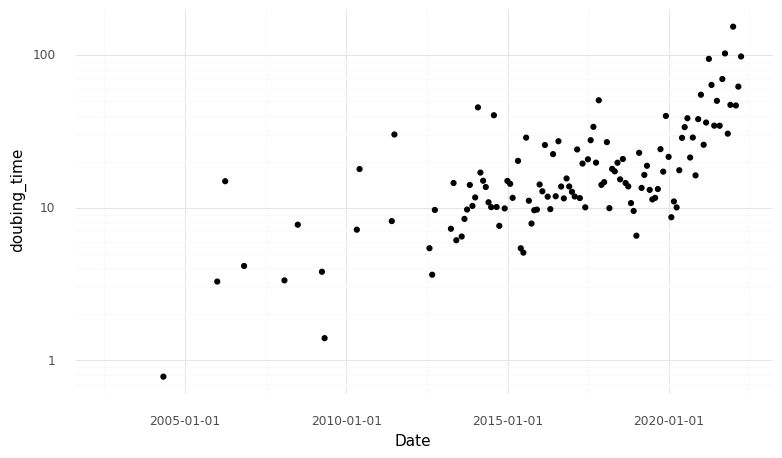
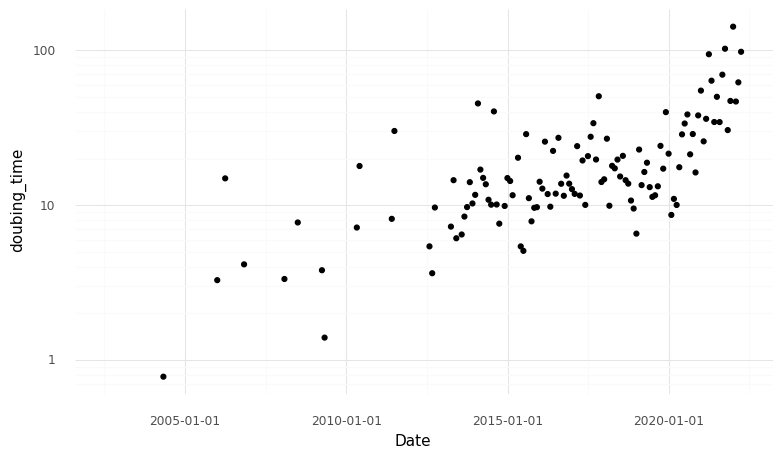
deploy: 783f5d8aea4b6f6c008cb1d2ea88844b4d790fa4

diff --git a/searchindex.js b/searchindex.js
@@ -1,1 +1,1 @@
-Search.setIndex({docnames:["201109_Make_records_figure","README","example_analysis"],envversion:{"sphinx.domains.c":2,"sphinx.domains.changeset":1,"sphinx.domains.citation":1,"sphinx.domains.cpp":5,"sphinx.domains.index":1,"sphinx.domains.javascript":2,"sphinx.domains.math":2,"sphinx.domains.python":3,"sphinx.domains.rst":2,"sphinx.domains.std":2,"sphinx.ext.intersphinx":1,sphinx:56},filenames:["201109_Make_records_figure.ipynb","README.md","example_analysis.ipynb"],objects:{},objnames:{},objtypes:{},terms:{"0":[0,1,2],"00":[1,2],"002":2,"00229":1,"00e7":1,"01":[1,2],"011":1,"01225":2,"01e7":1,"02":2,"022":2,"02x":2,"03":[1,2],"04":1,"04461":2,"05":[0,2],"057374":2,"06":[1,2],"06t08":1,"07":2,"073450":2,"07t08":1,"08":[1,2],"088608":2,"09":2,"1":[0,1,2],"10":[1,2],"1016":[1,2],"1038":[1,2],"103978":2,"108":2,"1093":1,"10t08":1,"11":[0,2],"1126":2,"115":2,"1186":1,"11t08":1,"12":[0,1,2],"123":2,"12t08":1,"13":2,"1315":1,"13t08":1,"14":2,"1471":1,"14t08":1,"15":[1,2],"15252":2,"156136":2,"1592":2,"1593":2,"1594":2,"1595":2,"1596":2,"1597":2,"15t08":1,"16":2,"16t08":1,"17":2,"174734":2,"177540":2,"179":2,"179891":2,"17t08":1,"18":2,"184":2,"187":2,"19":2,"1e1":0,"1e2":0,"1e3":0,"1e4":0,"1e5":0,"1e6":0,"1e7":0,"1m":2,"2":[0,1,2],"20":[0,1,2],"2002":2,"2003":2,"2004":2,"2005":2,"2006":2,"2007":[1,2],"2008":2,"2009":2,"2010":2,"2011":2,"2012":2,"2013":2,"20130101t010101":2,"2014":2,"2015":2,"2016":2,"2017":2,"2018":2,"2019":2,"20190101":2,"20190101t010101":2,"2020":2,"20200101t010101":2,"2021":2,"202110255":2,"2022":2,"21":2,"21579":2,"2164":1,"22":2,"23":2,"231977365":0,"2429555416405761":2,"247":2,"249":1,"25":[1,2],"255":2,"268":1,"27":2,"28":2,"280252":2,"281293":2,"29":2,"3":[0,1,2],"30":2,"31":2,"311":0,"32590":2,"36":2,"37":[1,2],"38":2,"381":2,"382453":2,"388":2,"39657":2,"4":[0,1,2],"401":0,"40572":2,"410062":2,"410561":2,"41328":2,"42":2,"420":2,"4390":2,"44987376":2,"46":2,"47":2,"47262":2,"47820":2,"48":1,"48706":2,"5":[0,1,2],"502633":2,"515":2,"5480":2,"5552":2,"596380":2,"6":[1,2],"609":2,"609732":2,"62":2,"6273":1,"655491":2,"66":2,"67":2,"7":2,"717":2,"736172":2,"76":2,"772672":2,"781184":2,"789":2,"8":[0,1,2],"816540":2,"8744100685939":2,"8744100853474":2,"8744102383249":2,"8744102454393":2,"8744104908466":2,"8744104957329":2,"8744104969204":2,"8744104970861":2,"8744104974162":2,"8744105021498":2,"8744105036873":2,"8744105036876":2,"8744105042797":2,"8744105148676":2,"8744105178106":2,"8788578254833":0,"889":2,"9":[1,2],"911392":2,"92":2,"921388":2,"93650":2,"969883":2,"971059":2,"972059":2,"992":2,"break":[0,2],"default":[1,2],"do":[0,2],"float":[0,2],"import":[0,1,2],"int":2,"p\u00e1lovic":2,"public":0,"r\u00f3bert":2,"return":2,"super":1,"true":[0,2],A:[1,2],If:0,In:1,No:[1,2],The:2,To:[0,1],_or_:2,abm1831:2,adjust_text:0,adult:2,adv:2,ae:[0,2],after:2,al:[1,2],alia:[0,2],all:1,all_studi:2,allergi:2,alpha:2,alphabet:2,amp:1,an:1,analysi:1,andrea:2,ani:0,api:2,append:2,appli:2,arial:2,arna:1,arrowprop:0,arrowstyl:0,ascend:2,assign:2,astyp:2,august:2,author:[1,2],authors_pct_chang:2,autoalign:0,avail:2,b:2,back:2,barbacioru:1,base_famili:2,bc:2,befor:2,behavior:0,below:1,biologi:2,biorxiv:[1,2],biorxiv_over_tim:2,black:[0,2],blood:2,bmc:1,bmcgenom:1,bone:2,bool:2,brain:2,breakdown:2,breaker:0,builtin:0,bx_frac:2,c0:2,c1:2,c2:2,c3:2,c4:2,c:2,can:2,cao:1,castillo:2,cat:2,catalin:1,categor:2,categori:2,cell:0,cells_per_month:2,cells_per_studi:2,check:2,chemotherapi:2,chr:1,chromium:2,clinic:2,clr:2,cluster:[1,2],clustering_over_tim:2,clusters_per_cel:2,clusters_per_cells_by_tissu:2,code:1,col:1,col_charact:1,col_doubl:1,col_numb:1,color:[0,2],colorconvert:2,colorsi:2,column:[1,2],com:2,comma_format:0,common:2,commun:2,complet:1,concat:2,config:[0,2],contain:0,contrast:[1,2],convert:2,copi:[1,2],count:2,cours:2,cp:1,cra004852:2,cts_:2,cultur:2,curat:[1,2],current:2,d:[0,2],data:[0,1,2],data_scal:2,data_snapshot_2019:1,databas:1,datafram:2,dataset:2,date:[0,1,2],date_break:2,date_format:2,datetim:0,dbl:1,decemb:2,def:2,dejavu:2,delim:1,deposit:2,deprec:0,deprecationwarn:0,detail:0,devdoc:0,development:[1,2],df:[0,2],df_:2,dictionari:2,did_biorxiv:2,differ:[1,2],diseas:2,displai:2,doi:[1,2],doubing_tim:2,doubling_tim:2,drop:2,dropna:2,drosophila:2,dt:2,dtype:2,each:2,elimin:2,embryo:2,end:2,entri:2,erdogan:2,erkan:2,esumi:1,et:[1,2],exampl:1,exclude_tissu:2,expand_point:0,expand_text:0,explod:2,ey:2,facet_wrap:2,fall:2,fals:[0,2],famili:2,februari:2,fig:[0,2],figur:[1,2],figure_format:[0,2],figure_s:[0,2],file:1,fill:2,fillna:2,filterwarn:2,findfont:2,fit:2,float64:[0,2],folder:2,follow:2,font:2,font_manag:2,format:[0,2],formatt:[0,2],formula:2,found:2,fr:1,fraction:2,from:[0,2],fu:2,fuchou:1,full:1,gao:2,ge:1,gener:1,geo:1,geom_bar:2,geom_lin:2,geom_point:[0,2],geom_text:0,get:2,get_coeff_pv:2,get_regression_coeff:2,ggplot:[0,2],gilchrist:1,github:[1,2],gkl050:1,grei:2,group:2,groupbi:2,gs:1,gse14605:1,gse155578:2,gse165897:2,gse4309:1,gt:2,guan:2,guidanc:0,h5ad:[1,2],h:2,ha:2,hallmark:2,head:[1,2],heart:2,here:0,heterochron:2,hex_color:2,hls_to_rgb:2,hostedtoolcach:0,html:0,http:[0,1,2],huang:2,human:2,i:1,ian:1,id:2,iden:2,ident:2,idx:2,ignor:2,iloc:2,immunol:2,immunolog:2,index:2,individu:2,inf:2,inlin:[0,2],inlinebackend:[0,2],instruct:1,int64:2,interact:0,io:[1,2],ipykernel_1825:0,isol:[1,2],iterrow:0,itself:0,j:[1,2],jaci:2,jam:2,januari:2,jason:1,jessica:2,ji:2,journal:[1,2],juan:2,k:[1,2],kaiyang:2,keller:2,kib:1,kidnei:2,kind:2,kur:1,kurimoto:1,l:2,lab:[0,2],label:[0,2],lambda:2,last:2,layer:0,lcm:1,leydig:2,leyva:2,liang:2,lib:0,librari:[0,1],light:2,lighten:2,lightgrei:0,limit:0,list:2,liver:2,lm:2,loc:0,locat:[1,2],log10:2,log:2,longitudin:2,look:2,lot:2,ls:1,lung:2,lw:0,m:[0,1,2],m_idx:2,make:2,manual:1,manuel:2,manuscript:[1,2],map:[0,2],marrow:2,matplotlib:[0,2],matplotlibdeprecationwarn:2,me:1,mean:2,measur:[0,1,2],median:2,median_rna_df:2,merg:2,meth:1,method:2,michael:1,minpeng:2,miss:0,mizani:[0,2],mode:1,modifi:0,modul:2,molecular:2,month:2,monthli:2,monthly_stat:2,more:[0,1],most:2,motoneuron:2,mous:2,mplcol:2,mrna:1,msb:2,n:0,na:1,name:2,namespac:0,nan:[1,2],nar:1,nat:[1,2],natur:2,ncol:2,neur:1,neuro:1,neuron:1,new_color:2,newest:2,nichola:2,nierop:2,nmeth:1,none:2,normal:2,note:0,notebook:1,novemb:2,np:[0,2],nper:2,nresearch:1,nuclei:1,number:[1,2],numpi:[0,2],nuniqu:2,nxn:[0,1,2],object:1,obtain:1,octob:2,ol:2,onc:2,onli:2,oper:1,opt:0,option:[0,2],order:2,org:0,organ:[1,2],organoid:2,other:2,out:1,ovari:2,over:[1,2],p:[0,2],p_:2,packag:0,palett:2,pancrea:2,panda:[0,1,2],panel:[1,2],parabiosi:2,param:2,pars:1,patrick:2,pca:[1,2],pcr:1,pct_chang:2,pd:[0,1,2],pdf:2,pekcan:2,per:[0,2],per_month:2,perfom:2,perform:2,pick:1,pipe:[0,2],pipet:1,pivot:2,platform:1,plot:2,plotnin:[0,2],plotninewarn:0,popul:0,pre:2,predict:2,predict_number_celltyp:2,preprint:2,print:2,proce:1,produc:2,profil:2,programat:1,proportion:2,pseudoanalysi:2,pseudotim:[1,2],pseudotime_over_tim:2,publish:2,pvalu:2,py:0,pylab:[0,2],python3:0,python:0,q:2,qcut:2,queri:[0,2],r:2,rat:2,read_csv:[0,1,2],read_delim:1,readr:1,reciproc:2,red:2,releas:0,remain:2,remov:0,renam:2,replac:[0,2],report:[0,1,2],repositori:2,request:2,requir:0,resampl:2,reset_index:2,retina:[0,2],reve:2,reveal:[1,2],rgb:2,rgb_to_hl:2,rihel:1,rna:[0,1,2],rna_df:2,row:[0,1],run:2,s0896:1,s41586:2,s41597:2,s:2,sadvanc:2,safe:0,san:2,sanaz:2,save:2,scalar:0,scale_color_manu:2,scale_fill_brew:2,scale_fill_manu:2,scale_x_datetim:[0,2],scale_x_log10:2,scale_y_log10:[0,2],scha:2,sci:2,sciadv:2,scienc:2,scrnaseq_studi:2,sdata:2,se:[0,1,2],see:1,sep:[0,1,2],septemb:2,seq2:2,seq:[0,2],sequenc:2,shape:2,sheng:1,shigei:1,shigeyuki:1,shih:2,shorthand:[0,1,2],silenc:0,sing:1,singl:0,site:0,size:[0,1,2],ski:2,skin:2,sm:[1,2],smart:2,smarter:2,smf:2,sort_index:2,sort_valu:[0,2],sourc:[1,2],space:2,spec:1,specif:[0,1],spleen:2,split:2,stage:[1,2],stat:2,stat_smooth:2,statist:2,statsmodel:2,str:[0,2],strftime:2,string:2,studi:0,studies_over_tim:2,studies_per_month:2,subkhank:1,subkhankulova:1,subset:2,sul:1,sum:2,summary_t:2,sun:2,support:2,system:2,t:[0,1,2],t_:2,t_dict:2,tabl:2,tail:[1,2],take:2,tang:1,tatian:1,tatiana:1,tdf:2,tech:2,techniqu:[1,2],techniques_over_tim:2,technolog:2,test:2,theme_minim:[0,2],thi:[0,2],ti:1,tibbl:1,tidyvers:1,tietjen:1,time:2,timestamp:2,tissu:[1,2],tissue_:2,titl:[0,1,2],tmp:0,to_datetim:[0,2],to_excel:2,to_fram:2,to_rgb:2,top:2,top_journ:2,top_tissu:2,total:[0,1,2],tran:1,transcriptom:[1,2],trend:[1,2],ts:2,tsne:[1,2],tsne_over_tim:2,tsv:[0,1,2],tumor:2,type:[0,1,2],uniqu:2,unique_author:2,unknown:2,url:2,us:[0,2],v0:2,val:[1,2],valu:[0,2],value_count:2,van:2,variabl:1,veloc:[1,2],velten:2,vs:2,wang:1,want:0,warn:[0,2],wen:2,whole:2,wu:1,www:[1,2],x64:0,x:[0,1,2],xi:[1,2],xiaoju:2,xin:2,xlsx:2,xuefan:2,y:[0,1,2],yanagawa:1,yangzhou:1,yanxiang:1,ye:2,year:2,yi:2,you:0,yuchio:1,zhang:2,zorder:0},titles:["Make plot highlighting record datasets over time","single-cell-studies","Example analysis notebook - single cell studies database"],titleterms:{With:1,access:1,analysi:2,cell:[1,2],databas:2,dataset:0,exampl:2,gsutil:1,highlight:0,make:0,notebook:2,over:0,plot:0,python:1,r:1,record:0,singl:[1,2],snapshot:1,studi:[1,2],time:0}})
+Search.setIndex({docnames:["201109_Make_records_figure","README","example_analysis"],envversion:{"sphinx.domains.c":2,"sphinx.domains.changeset":1,"sphinx.domains.citation":1,"sphinx.domains.cpp":5,"sphinx.domains.index":1,"sphinx.domains.javascript":2,"sphinx.domains.math":2,"sphinx.domains.python":3,"sphinx.domains.rst":2,"sphinx.domains.std":2,"sphinx.ext.intersphinx":1,sphinx:56},filenames:["201109_Make_records_figure.ipynb","README.md","example_analysis.ipynb"],objects:{},objnames:{},objtypes:{},terms:{"0":[0,1,2],"00":[1,2],"002":2,"00229":1,"00e7":1,"01":[1,2],"011":1,"01225":2,"01e7":1,"02":2,"022":2,"02x":2,"03":[1,2],"04":1,"04461":2,"05":[0,2],"06":[1,2],"06t08":1,"07":2,"073450":2,"07t08":1,"08":[1,2],"088608":2,"09":2,"1":[0,1,2],"10":[1,2],"1016":[1,2],"1038":[1,2],"103978":2,"108":2,"1093":1,"10t08":1,"11":[0,2],"1114798":2,"1126":2,"116":2,"1186":1,"11t08":1,"12":[0,1,2],"123":2,"12t08":1,"13":2,"1315":1,"13t08":1,"14":2,"1471":1,"14t08":1,"15":[1,2],"15252":2,"156136":2,"1593":2,"1594":2,"1595":2,"1596":2,"1597":2,"1598":2,"15t08":1,"16":2,"16t08":1,"17":2,"174734":2,"177540":2,"179":2,"179891":2,"17t08":1,"18":2,"184":2,"187":2,"19":2,"1e1":0,"1e2":0,"1e3":0,"1e4":0,"1e5":0,"1e6":0,"1e7":0,"1m":2,"2":[0,1,2],"20":[0,1,2],"2002":2,"2003":2,"2004":2,"2005":2,"2006":2,"2007":[1,2],"2008":2,"2009":2,"2010":2,"2011":2,"2012":2,"2013":2,"20130101t010101":2,"2014":2,"2015":2,"2016":2,"2017":2,"2018":2,"2019":2,"20190101":2,"20190101t010101":2,"2020":2,"20200101t010101":2,"2021":2,"202110255":2,"2022":2,"21":2,"2164":1,"21737":2,"22":2,"23":2,"231977365":0,"2428035043804756":2,"247":2,"249":1,"25":[1,2],"251":2,"255":2,"268":1,"27":2,"28":2,"280252":2,"281293":2,"29":2,"3":[0,1,2],"30":2,"31":2,"311":0,"32590":2,"334365":2,"36":2,"37":[1,2],"38":2,"381":2,"382453":2,"3855":2,"388":2,"39657":2,"4":[0,1,2],"401":0,"40572":2,"410062":2,"410561":2,"41328":2,"42":2,"420":2,"45757376":2,"46":2,"47":2,"47262":2,"4760":2,"47820":2,"48":1,"5":[0,1,2],"515":2,"5485":2,"56412":2,"596380":2,"6":[1,2],"609":2,"609732":2,"62":2,"6273":1,"66":2,"669199":2,"67":2,"7":2,"718":2,"718117":2,"736172":2,"76":2,"772672":2,"781184":2,"790":2,"8":[0,1,2],"828306":2,"838547":2,"8751434836977":0,"8787740934054":2,"8787741106929":2,"8787748932521":2,"8787748936837":2,"8787748980215":2,"8787748995630":2,"8787751461069":2,"8787751467987":2,"8787751502800":2,"8787751559596":2,"8787751586208":2,"8787751590355":2,"8787751719677":2,"8787751773437":2,"8787813732925":2,"892":2,"9":[1,2],"911392":2,"92":2,"93650":2,"969883":2,"971059":2,"993":2,"break":[0,2],"default":[1,2],"do":[0,2],"float":[0,2],"import":[0,1,2],"int":2,"p\u00e1lovic":2,"public":0,"r\u00f3bert":2,"return":2,"super":1,"true":[0,2],A:[1,2],If:0,In:1,No:[1,2],The:2,To:[0,1],_or_:2,abm1831:2,adjust_text:0,adult:2,adv:2,ae:[0,2],after:2,al:[1,2],alia:[0,2],all:1,all_studi:2,allergi:2,alpha:2,alphabet:2,amp:1,an:1,analysi:1,andrea:2,ani:0,api:2,append:2,appli:2,arial:2,arna:1,arrowprop:0,arrowstyl:0,ascend:2,assign:2,astyp:2,august:2,author:[1,2],authors_pct_chang:2,autoalign:0,avail:2,b:2,back:2,barbacioru:1,base_famili:2,bc:2,befor:2,behavior:0,below:1,biologi:2,biorxiv:[1,2],biorxiv_over_tim:2,black:[0,2],blood:2,bmc:1,bmcgenom:1,bone:2,bool:2,brain:2,breakdown:2,breaker:0,builtin:0,bx_frac:2,c0:2,c1:2,c2:2,c3:2,c4:2,c:2,can:2,cao:1,castillo:2,cat:2,catalin:1,categor:2,categori:2,cell:0,cells_per_month:2,cells_per_studi:2,check:2,chemotherapi:2,chr:1,chromium:2,clinic:2,clr:2,cluster:[1,2],clustering_over_tim:2,clusters_per_cel:2,clusters_per_cells_by_tissu:2,code:1,col:1,col_charact:1,col_doubl:1,col_numb:1,color:[0,2],colorconvert:2,colorsi:2,column:[1,2],com:2,comma_format:0,common:2,commun:2,complet:1,concat:2,config:[0,2],contain:0,contrast:[1,2],convert:2,copi:[1,2],count:2,cours:2,cp:1,cra004852:2,cts_:2,cultur:2,curat:[1,2],current:2,d:[0,2],data:[0,1,2],data_scal:2,data_snapshot_2019:1,databas:1,datafram:2,dataset:2,date:[0,1,2],date_break:2,date_format:2,datetim:0,dbl:1,decemb:2,def:2,dejavu:2,delim:1,deposit:2,deprec:0,deprecationwarn:0,detail:0,devdoc:0,development:[1,2],df:[0,2],df_:2,dictionari:2,did_biorxiv:2,differ:[1,2],diseas:2,displai:2,doi:[1,2],doubing_tim:2,doubling_tim:2,drop:2,dropna:2,drosophila:2,dt:2,dtype:2,each:2,elimin:2,embryo:2,end:2,entri:2,erdogan:2,erkan:2,esumi:1,et:[1,2],exampl:1,exclude_tissu:2,expand_point:0,expand_text:0,explod:2,ey:2,facet_wrap:2,fall:2,fals:[0,2],famili:2,februari:2,fig:[0,2],figur:[1,2],figure_format:[0,2],figure_s:[0,2],file:1,fill:2,fillna:2,filterwarn:2,findfont:2,fit:2,float64:[0,2],folder:2,follow:2,font:2,font_manag:2,format:[0,2],formatt:[0,2],formula:2,found:2,fr:1,fraction:2,from:[0,2],fu:2,fuchou:1,full:1,gao:2,ge:1,gener:1,geo:1,geom_bar:2,geom_lin:2,geom_point:[0,2],geom_text:0,get:2,get_coeff_pv:2,get_regression_coeff:2,ggplot:[0,2],gilchrist:1,github:[1,2],gkl050:1,grei:2,group:2,groupbi:2,gs:1,gse14605:1,gse155578:2,gse165897:2,gse4309:1,gt:2,guan:2,guidanc:0,h5ad:[1,2],h:2,ha:2,hallmark:2,head:[1,2],heart:2,here:0,heterochron:2,hex_color:2,hls_to_rgb:2,hostedtoolcach:0,html:0,http:[0,1,2],huang:2,human:2,i:1,ian:1,id:2,iden:2,ident:2,idx:2,ignor:2,iloc:2,immunol:2,immunolog:2,index:2,individu:2,inf:2,inlin:[0,2],inlinebackend:[0,2],instruct:1,int64:2,interact:0,io:[1,2],ipykernel_1756:0,isol:[1,2],iterrow:0,itself:0,j:[1,2],jaci:2,jam:2,januari:2,jason:1,jessica:2,ji:2,journal:[1,2],juan:2,k:[1,2],kaiyang:2,keller:2,kib:1,kidnei:2,kind:2,kur:1,kurimoto:1,l:2,lab:[0,2],label:[0,2],lambda:2,last:2,layer:0,lcm:1,leydig:2,leyva:2,liang:2,lib:0,librari:[0,1],light:2,lighten:2,lightgrei:0,limit:0,list:2,liver:2,lm:2,loc:0,locat:[1,2],log10:2,log:2,longitudin:2,look:2,lot:2,ls:1,lung:2,lw:0,m:[0,1,2],m_idx:2,make:2,manual:1,manuel:2,manuscript:[1,2],map:[0,2],marrow:2,matplotlib:[0,2],matplotlibdeprecationwarn:2,me:1,mean:2,measur:[0,1,2],median:2,median_rna_df:2,merg:2,meth:1,method:2,michael:1,minpeng:2,miss:0,mizani:[0,2],mode:1,modifi:0,modul:2,molecular:2,month:2,monthli:2,monthly_stat:2,more:[0,1],most:2,motoneuron:2,mous:2,mplcol:2,mrna:1,msb:2,n:0,na:1,name:2,namespac:0,nan:[1,2],nar:1,nat:[1,2],natur:2,ncol:2,neur:1,neuro:1,neuron:1,new_color:2,newest:2,nichola:2,nierop:2,nmeth:1,none:2,normal:2,note:0,notebook:1,novemb:2,np:[0,2],nper:2,nresearch:1,nuclei:1,number:[1,2],numpi:[0,2],nuniqu:2,nxn:[0,1,2],object:1,obtain:1,octob:2,ol:2,onc:2,onli:2,oper:1,opt:0,option:[0,2],order:2,org:0,organ:[1,2],organoid:2,other:2,out:1,ovari:2,over:[1,2],p:[0,2],p_:2,packag:0,palett:2,pancrea:2,panda:[0,1,2],panel:[1,2],parabiosi:2,param:2,pars:1,patrick:2,pca:[1,2],pcr:1,pct_chang:2,pd:[0,1,2],pdf:2,pekcan:2,per:[0,2],per_month:2,perfom:2,perform:2,pick:1,pipe:[0,2],pipet:1,pivot:2,platform:1,plot:2,plotnin:[0,2],plotninewarn:0,popul:0,pre:2,predict:2,predict_number_celltyp:2,preprint:2,print:2,proce:1,produc:2,profil:2,programat:1,proportion:2,pseudoanalysi:2,pseudotim:[1,2],pseudotime_over_tim:2,publish:2,pvalu:2,py:0,pylab:[0,2],python3:0,python:0,q:2,qcut:2,queri:[0,2],r:2,rat:2,read_csv:[0,1,2],read_delim:1,readr:1,reciproc:2,red:2,releas:0,remain:2,remov:0,renam:2,replac:[0,2],report:[0,1,2],repositori:2,request:2,requir:0,resampl:2,reset_index:2,retina:[0,2],reve:2,reveal:[1,2],rgb:2,rgb_to_hl:2,rihel:1,rna:[0,1,2],rna_df:2,row:[0,1],run:2,s0896:1,s41586:2,s41597:2,s:2,sadvanc:2,safe:0,san:2,sanaz:2,save:2,scalar:0,scale_color_manu:2,scale_fill_brew:2,scale_fill_manu:2,scale_x_datetim:[0,2],scale_x_log10:2,scale_y_log10:[0,2],scha:2,sci:2,sciadv:2,scienc:2,scrnaseq_studi:2,sdata:2,se:[0,1,2],see:1,sep:[0,1,2],septemb:2,seq2:2,seq:[0,2],sequenc:2,shape:2,sheng:1,shigei:1,shigeyuki:1,shih:2,shorthand:[0,1,2],silenc:0,sing:1,singl:0,site:0,size:[0,1,2],ski:2,skin:2,sm:[1,2],smart:2,smarter:2,smf:2,sort_index:2,sort_valu:[0,2],sourc:[1,2],space:2,spec:1,specif:[0,1],spleen:2,split:2,stage:[1,2],stat:2,stat_smooth:2,statist:2,statsmodel:2,str:[0,2],strftime:2,string:2,studi:0,studies_over_tim:2,studies_per_month:2,subkhank:1,subkhankulova:1,subset:2,sul:1,sum:2,summary_t:2,sun:2,support:2,system:2,t:[0,1,2],t_:2,t_dict:2,tabl:2,tail:[1,2],take:2,tang:1,tatian:1,tatiana:1,tdf:2,tech:2,techniqu:[1,2],techniques_over_tim:2,technolog:2,test:2,theme_minim:[0,2],thi:[0,2],ti:1,tibbl:1,tidyvers:1,tietjen:1,time:2,timestamp:2,tissu:[1,2],tissue_:2,titl:[0,1,2],tmp:0,to_datetim:[0,2],to_excel:2,to_fram:2,to_rgb:2,top:2,top_journ:2,top_tissu:2,total:[0,1,2],tran:1,transcriptom:[1,2],trend:[1,2],ts:2,tsne:[1,2],tsne_over_tim:2,tsv:[0,1,2],tumor:2,type:[0,1,2],uniqu:2,unique_author:2,unknown:2,url:2,us:[0,2],v0:2,val:[1,2],valu:[0,2],value_count:2,van:2,variabl:1,veloc:[1,2],velten:2,vs:2,wang:1,want:0,warn:[0,2],wen:2,whole:2,wu:1,www:[1,2],x64:0,x:[0,1,2],xi:[1,2],xiaoju:2,xin:2,xlsx:2,xuefan:2,y:[0,1,2],yanagawa:1,yangzhou:1,yanxiang:1,ye:2,year:2,yi:2,you:0,yuchio:1,zhang:2,zorder:0},titles:["Make plot highlighting record datasets over time","single-cell-studies","Example analysis notebook - single cell studies database"],titleterms:{With:1,access:1,analysi:2,cell:[1,2],databas:2,dataset:0,exampl:2,gsutil:1,highlight:0,make:0,notebook:2,over:0,plot:0,python:1,r:1,record:0,singl:[1,2],snapshot:1,studi:[1,2],time:0}})

diff --git a/example_analysis.html b/example_analysis.html
@@ -273,7 +273,7 @@ const thebe_selector_output = ".output, .cell_output"
 </div>
 </div>
 <div class="cell_output docutils container">
-<div class="output stream highlight-myst-ansi notranslate"><div class="highlight"><pre><span></span>(1597, 28)
+<div class="output stream highlight-myst-ansi notranslate"><div class="highlight"><pre><span></span>(1598, 28)
 </pre></div>
 </div>
 </div>
@@ -406,7 +406,7 @@ const thebe_selector_output = ".output, .cell_output"
 </div>
 <div class="cell_output docutils container">
 <img alt="_images/example_analysis_8_0.png" src="_images/example_analysis_8_0.png" />
-<div class="output text_plain highlight-myst-ansi notranslate"><div class="highlight"><pre><span></span>&lt;ggplot: (8744105178106)&gt;
+<div class="output text_plain highlight-myst-ansi notranslate"><div class="highlight"><pre><span></span>&lt;ggplot: (8787751719677)&gt;
 </pre></div>
 </div>
 </div>
@@ -453,7 +453,7 @@ const thebe_selector_output = ".output, .cell_output"
 </pre></div>
 </div>
 <img alt="_images/example_analysis_10_1.png" src="_images/example_analysis_10_1.png" />
-<div class="output text_plain highlight-myst-ansi notranslate"><div class="highlight"><pre><span></span>&lt;ggplot: (8744105036876)&gt;
+<div class="output text_plain highlight-myst-ansi notranslate"><div class="highlight"><pre><span></span>&lt;ggplot: (8787751590355)&gt;
 </pre></div>
 </div>
 </div>
@@ -508,7 +508,7 @@ Name: Cell clustering, dtype: float64
 </div>
 <div class="cell_output docutils container">
 <img alt="_images/example_analysis_12_0.png" src="_images/example_analysis_12_0.png" />
-<div class="output text_plain highlight-myst-ansi notranslate"><div class="highlight"><pre><span></span>&lt;ggplot: (8744104908466)&gt;
+<div class="output text_plain highlight-myst-ansi notranslate"><div class="highlight"><pre><span></span>&lt;ggplot: (8787751467987)&gt;
 </pre></div>
 </div>
 </div>
@@ -549,7 +549,7 @@ Name: Cell clustering, dtype: float64
 </div>
 <div class="cell_output docutils container">
 <img alt="_images/example_analysis_13_0.png" src="_images/example_analysis_13_0.png" />
-<div class="output text_plain highlight-myst-ansi notranslate"><div class="highlight"><pre><span></span>&lt;ggplot: (8744105036873)&gt;
+<div class="output text_plain highlight-myst-ansi notranslate"><div class="highlight"><pre><span></span>&lt;ggplot: (8787751586208)&gt;
 </pre></div>
 </div>
 </div>
@@ -590,7 +590,7 @@ Name: Cell clustering, dtype: float64
 </div>
 <div class="cell_output docutils container">
 <img alt="_images/example_analysis_16_0.png" src="_images/example_analysis_16_0.png" />
-<div class="output text_plain highlight-myst-ansi notranslate"><div class="highlight"><pre><span></span>&lt;ggplot: (8744105021498)&gt;
+<div class="output text_plain highlight-myst-ansi notranslate"><div class="highlight"><pre><span></span>&lt;ggplot: (8787751461069)&gt;
 </pre></div>
 </div>
 </div>
@@ -739,12 +739,12 @@ Name: Cell clustering, dtype: float64
     <tr>
       <th>19</th>
       <td>2021</td>
-      <td>46.921388</td>
+      <td>46.828306</td>
     </tr>
     <tr>
       <th>20</th>
       <td>2022</td>
-      <td>62.816540</td>
+      <td>62.838547</td>
     </tr>
   </tbody>
 </table>
@@ -764,7 +764,7 @@ Name: Cell clustering, dtype: float64
 </div>
 <div class="cell_output docutils container">
 <img alt="_images/example_analysis_19_0.png" src="_images/example_analysis_19_0.png" />
-<div class="output text_plain highlight-myst-ansi notranslate"><div class="highlight"><pre><span></span>&lt;ggplot: (8744102454393)&gt;
+<div class="output text_plain highlight-myst-ansi notranslate"><div class="highlight"><pre><span></span>&lt;ggplot: (8787748980215)&gt;
 </pre></div>
 </div>
 </div>
@@ -793,7 +793,7 @@ Name: Cell clustering, dtype: float64
 </div>
 <div class="cell_output docutils container">
 <img alt="_images/example_analysis_21_0.png" src="_images/example_analysis_21_0.png" />
-<div class="output text_plain highlight-myst-ansi notranslate"><div class="highlight"><pre><span></span>&lt;ggplot: (8744102383249)&gt;
+<div class="output text_plain highlight-myst-ansi notranslate"><div class="highlight"><pre><span></span>&lt;ggplot: (8787748932521)&gt;
 </pre></div>
 </div>
 </div>
@@ -850,7 +850,7 @@ Name: Cell clustering, dtype: float64
     <tr>
       <th>2</th>
       <td>Cell</td>
-      <td>115</td>
+      <td>116</td>
     </tr>
     <tr>
       <th>3</th>
@@ -968,11 +968,11 @@ Name: Cell clustering, dtype: float64
 </div>
 </div>
 <div class="cell_output docutils container">
-<div class="output stream highlight-myst-ansi notranslate"><div class="highlight"><pre><span></span>Unknown    789
+<div class="output stream highlight-myst-ansi notranslate"><div class="highlight"><pre><span></span>Unknown    790
 No         420
 Yes        388
 Name: did_bioRxiv, dtype: int64
-Fraction of studies in biorxiv: 0.2429555416405761
+Fraction of studies in biorxiv: 0.2428035043804756
 </pre></div>
 </div>
 </div>
@@ -1023,7 +1023,7 @@ Fraction of studies in biorxiv: 0.2429555416405761
 </div>
 <div class="cell_output docutils container">
 <img alt="_images/example_analysis_26_0.png" src="_images/example_analysis_26_0.png" />
-<div class="output text_plain highlight-myst-ansi notranslate"><div class="highlight"><pre><span></span>&lt;ggplot: (8744104974162)&gt;
+<div class="output text_plain highlight-myst-ansi notranslate"><div class="highlight"><pre><span></span>&lt;ggplot: (8787748936837)&gt;
 </pre></div>
 </div>
 </div>
@@ -1040,11 +1040,11 @@ Fraction of studies in biorxiv: 0.2429555416405761
 </div>
 </div>
 <div class="cell_output docutils container">
-<div class="output stream highlight-myst-ansi notranslate"><div class="highlight"><pre><span></span>Unknown    789
+<div class="output stream highlight-myst-ansi notranslate"><div class="highlight"><pre><span></span>Unknown    790
 No         420
 Yes        388
 Name: did_bioRxiv, dtype: int64
-Fraction of studies in biorxiv: 0.2429555416405761
+Fraction of studies in biorxiv: 0.2428035043804756
 </pre></div>
 </div>
 </div>
@@ -1115,7 +1115,7 @@ Fraction of studies in biorxiv: 0.2429555416405761
       <th>2021-12-31</th>
       <td>3.0</td>
       <td>0.0</td>
-      <td>5.0</td>
+      <td>6.0</td>
     </tr>
     <tr>
       <th>2021-11-30</th>
@@ -1201,7 +1201,7 @@ Fraction of studies in biorxiv: 0.2429555416405761
 </div>
 <div class="cell_output docutils container">
 <img alt="_images/example_analysis_31_0.png" src="_images/example_analysis_31_0.png" />
-<div class="output text_plain highlight-myst-ansi notranslate"><div class="highlight"><pre><span></span>&lt;ggplot: (8744104957329)&gt;
+<div class="output text_plain highlight-myst-ansi notranslate"><div class="highlight"><pre><span></span>&lt;ggplot: (8787751559596)&gt;
 </pre></div>
 </div>
 </div>
@@ -1256,7 +1256,7 @@ Fraction of studies in biorxiv: 0.2429555416405761
 </div>
 <div class="cell_output docutils container">
 <img alt="_images/example_analysis_34_0.png" src="_images/example_analysis_34_0.png" />
-<div class="output text_plain highlight-myst-ansi notranslate"><div class="highlight"><pre><span></span>&lt;ggplot: (8744104970861)&gt;
+<div class="output text_plain highlight-myst-ansi notranslate"><div class="highlight"><pre><span></span>&lt;ggplot: (8787751502800)&gt;
 </pre></div>
 </div>
 </div>
@@ -1326,7 +1326,7 @@ Fraction of studies in biorxiv: 0.2429555416405761
     <tr>
       <th>4</th>
       <td>2021-12-31</td>
-      <td>48706</td>
+      <td>56412</td>
     </tr>
     <tr>
       <th>5</th>
@@ -1406,7 +1406,7 @@ Fraction of studies in biorxiv: 0.2429555416405761
     <tr>
       <th>4</th>
       <td>2021-12-31</td>
-      <td>8</td>
+      <td>9</td>
     </tr>
     <tr>
       <th>5</th>
@@ -1488,8 +1488,8 @@ Fraction of studies in biorxiv: 0.2429555416405761
     <tr>
       <th>4</th>
       <td>December 2021</td>
-      <td>8</td>
-      <td>48706</td>
+      <td>9</td>
+      <td>56412</td>
     </tr>
     <tr>
       <th>5</th>
@@ -1583,7 +1583,7 @@ Fraction of studies in biorxiv: 0.2429555416405761
       <td>Blood</td>
       <td>76</td>
       <td>Cell</td>
-      <td>115</td>
+      <td>116</td>
     </tr>
     <tr>
       <th>3</th>
@@ -1598,8 +1598,8 @@ Fraction of studies in biorxiv: 0.2429555416405761
     <tr>
       <th>4</th>
       <td>December 2021</td>
-      <td>8</td>
-      <td>48706</td>
+      <td>9</td>
+      <td>56412</td>
       <td>Bone marrow</td>
       <td>42</td>
       <td>Cell Reports</td>
@@ -1636,7 +1636,7 @@ Fraction of studies in biorxiv: 0.2429555416405761
 </div>
 </div>
 <div class="cell_output docutils container">
-<div class="output text_plain highlight-myst-ansi notranslate"><div class="highlight"><pre><span></span>(1597, 30)
+<div class="output text_plain highlight-myst-ansi notranslate"><div class="highlight"><pre><span></span>(1598, 30)
 </pre></div>
 </div>
 </div>
@@ -1649,7 +1649,7 @@ Fraction of studies in biorxiv: 0.2429555416405761
 </div>
 </div>
 <div class="cell_output docutils container">
-<div class="output text_plain highlight-myst-ansi notranslate"><div class="highlight"><pre><span></span>Reported cells total                         21579.5
+<div class="output text_plain highlight-myst-ansi notranslate"><div class="highlight"><pre><span></span>Reported cells total                         21737.0
 Number of reported cell types or clusters       14.0
 Number individuals                              15.0
 dtype: float64
@@ -1721,7 +1721,7 @@ dtype: float64
     </tr>
     <tr>
       <th>2021-12-31</th>
-      <td>48706.0</td>
+      <td>56412.0</td>
       <td>381.0</td>
       <td>29.0</td>
     </tr>
@@ -1755,7 +1755,7 @@ dtype: float64
 </div>
 </div>
 <div class="cell_output docutils container">
-<div class="output text_plain highlight-myst-ansi notranslate"><div class="highlight"><pre><span></span>Reported cells total    972059.0
+<div class="output text_plain highlight-myst-ansi notranslate"><div class="highlight"><pre><span></span>Reported cells total    1114798.0
 dtype: float64
 </pre></div>
 </div>
@@ -1781,7 +1781,7 @@ dtype: float64
 </div>
 <div class="cell_output docutils container">
 <img alt="_images/example_analysis_45_0.png" src="_images/example_analysis_45_0.png" />
-<div class="output text_plain highlight-myst-ansi notranslate"><div class="highlight"><pre><span></span>&lt;ggplot: (8744105042797)&gt;
+<div class="output text_plain highlight-myst-ansi notranslate"><div class="highlight"><pre><span></span>&lt;ggplot: (8787748995630)&gt;
 </pre></div>
 </div>
 </div>
@@ -1793,7 +1793,7 @@ dtype: float64
 </div>
 </div>
 <div class="cell_output docutils container">
-<div class="output text_plain highlight-myst-ansi notranslate"><div class="highlight"><pre><span></span>44987376.0
+<div class="output text_plain highlight-myst-ansi notranslate"><div class="highlight"><pre><span></span>45757376.0
 </pre></div>
 </div>
 </div>
@@ -1817,7 +1817,7 @@ dtype: float64
 </div>
 <div class="cell_output docutils container">
 <img alt="_images/example_analysis_47_0.png" src="_images/example_analysis_47_0.png" />
-<div class="output text_plain highlight-myst-ansi notranslate"><div class="highlight"><pre><span></span>&lt;ggplot: (8744104969204)&gt;
+<div class="output text_plain highlight-myst-ansi notranslate"><div class="highlight"><pre><span></span>&lt;ggplot: (8787813732925)&gt;
 </pre></div>
 </div>
 </div>
@@ -1848,11 +1848,11 @@ dtype: float64
   <thead>
     <tr style="text-align: right;">
       <th></th>
-      <th>1592</th>
       <th>1593</th>
       <th>1594</th>
       <th>1595</th>
       <th>1596</th>
+      <th>1597</th>
     </tr>
   </thead>
   <tbody>
@@ -2132,11 +2132,11 @@ dtype: float64
 </div>
 <div class="cell_output docutils container">
 <div class="output text_plain highlight-myst-ansi notranslate"><div class="highlight"><pre><span></span>data_scale
-(0.3, 2.889]       187.073450
-(2.889, 3.7]       515.177540
-(3.7, 4.25]       4390.057374
-(4.25, 4.717]     5552.502633
-(4.717, 6.609]    5480.655491
+(0.3, 2.892]       187.073450
+(2.892, 3.7]       515.177540
+(3.7, 4.251]      3855.334365
+(4.251, 4.718]    4760.669199
+(4.718, 6.609]    5485.718117
 dtype: float64
 </pre></div>
 </div>
@@ -2170,7 +2170,7 @@ dtype: float64
 </div>
 <div class="cell_output docutils container">
 <img alt="_images/example_analysis_53_0.png" src="_images/example_analysis_53_0.png" />
-<div class="output text_plain highlight-myst-ansi notranslate"><div class="highlight"><pre><span></span>&lt;ggplot: (8744100853474)&gt;
+<div class="output text_plain highlight-myst-ansi notranslate"><div class="highlight"><pre><span></span>&lt;ggplot: (8787741106929)&gt;
 </pre></div>
 </div>
 </div>
@@ -2218,7 +2218,7 @@ dtype: float64
 </div>
 <div class="cell_output docutils container">
 <img alt="_images/example_analysis_56_0.png" src="_images/example_analysis_56_0.png" />
-<div class="output text_plain highlight-myst-ansi notranslate"><div class="highlight"><pre><span></span>&lt;ggplot: (8744100685939)&gt;
+<div class="output text_plain highlight-myst-ansi notranslate"><div class="highlight"><pre><span></span>&lt;ggplot: (8787740934054)&gt;
 </pre></div>
 </div>
 </div>
@@ -2237,7 +2237,7 @@ dtype: float64
 </div>
 </div>
 <div class="cell_output docutils container">
-<div class="output text_plain highlight-myst-ansi notranslate"><div class="highlight"><pre><span></span>Other          992
+<div class="output text_plain highlight-myst-ansi notranslate"><div class="highlight"><pre><span></span>Other          993
 Brain          247
 Blood           76
 Lung            47
@@ -2283,7 +2283,7 @@ Name: Tissue_, dtype: int64
 </div>
 <div class="cell_output docutils container">
 <img alt="_images/example_analysis_60_0.png" src="_images/example_analysis_60_0.png" />
-<div class="output text_plain highlight-myst-ansi notranslate"><div class="highlight"><pre><span></span>&lt;ggplot: (8744105148676)&gt;
+<div class="output text_plain highlight-myst-ansi notranslate"><div class="highlight"><pre><span></span>&lt;ggplot: (8787751773437)&gt;
 </pre></div>
 </div>
 </div>

diff --git a/201109_Make_records_figure.html b/201109_Make_records_figure.html
@@ -240,7 +240,7 @@ Populating the interactive namespace from numpy and matplotlib
 </div>
 </div>
 <div class="cell_output docutils container">
-<div class="output stderr highlight-myst-ansi notranslate"><div class="highlight"><pre><span></span>/tmp/ipykernel_1825/231977365.py:3: DeprecationWarning: `np.float` is a deprecated alias for the builtin `float`. To silence this warning, use `float` by itself. Doing this will not modify any behavior and is safe. If you specifically wanted the numpy scalar type, use `np.float64` here.
+<div class="output stderr highlight-myst-ansi notranslate"><div class="highlight"><pre><span></span>/tmp/ipykernel_1756/231977365.py:3: DeprecationWarning: `np.float` is a deprecated alias for the builtin `float`. To silence this warning, use `float` by itself. Doing this will not modify any behavior and is safe. If you specifically wanted the numpy scalar type, use `np.float64` here.
 Deprecated in NumPy 1.20; for more details and guidance: https://numpy.org/devdocs/release/1.20.0-notes.html#deprecations
 </pre></div>
 </div>
@@ -319,7 +319,7 @@ Deprecated in NumPy 1.20; for more details and guidance: https://numpy.org/devdo
 </pre></div>
 </div>
 <img alt="_images/201109_Make_records_figure_9_1.png" src="_images/201109_Make_records_figure_9_1.png" />
-<div class="output text_plain highlight-myst-ansi notranslate"><div class="highlight"><pre><span></span>&lt;ggplot: (8788578254833)&gt;
+<div class="output text_plain highlight-myst-ansi notranslate"><div class="highlight"><pre><span></span>&lt;ggplot: (8751434836977)&gt;
 </pre></div>
 </div>
 </div>
